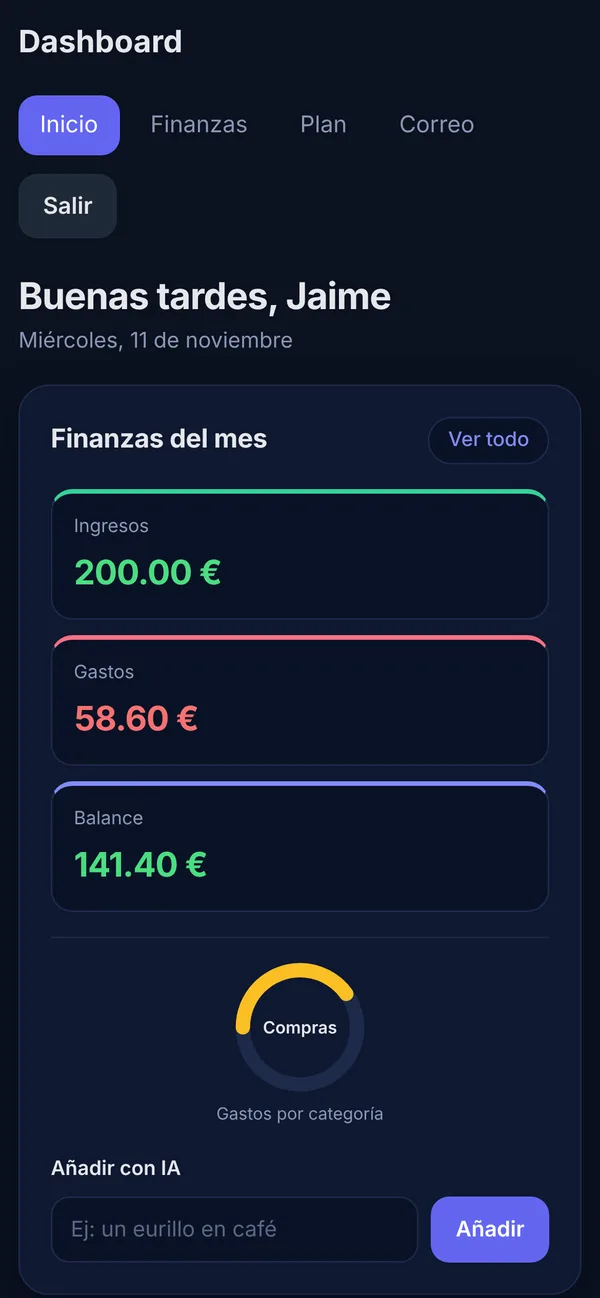
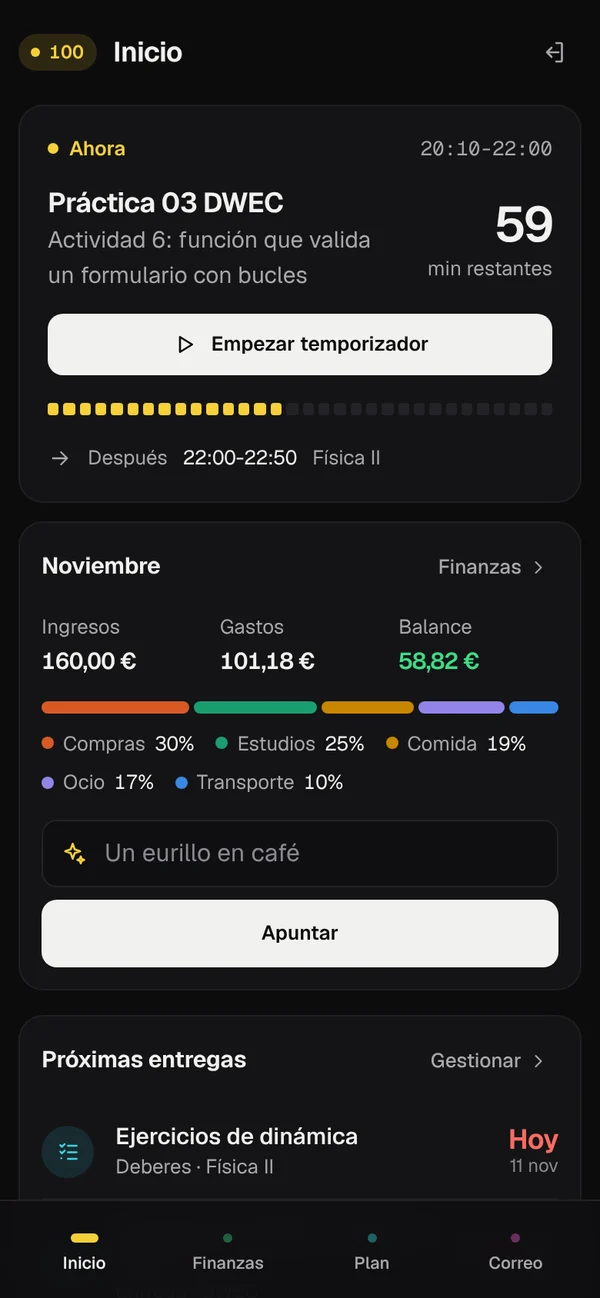
Capturas nuevas del dashboard: una de cada página
- Inicio, Finanzas, Plan y móvil actualizadas con el diseño nuevo
- Añadidas Correo y Acceso a la galería del caso de estudio
- Nuevo paso «Mi correo, resumido» en la historia del inicio
- Textos y traducciones al inglés al día (rosco, atajos, Ahora)

diff --git a/js/idiomas.js b/js/idiomas.js
@@ -173,13 +173,20 @@ const traducciones = {
     "Mi dashboard personal": "My personal dashboard",
     "Una web app privada que uso cada día para mis finanzas, mi plan de estudio y mi correo.": "A private web app I use every day for my money, my study plan and my email.",
     "Mi día en una pantalla": "My day on one screen",
-    "El inicio junta el balance del mes, lo que me toca estudiar hoy, los próximos exámenes y un temporizador pomodoro.": "The home page brings together the month's balance, what I have to study today, upcoming exams and a pomodoro timer.",
+    "El inicio me dice qué toca ahora y cuánto le queda, y junta el día completo, el balance del mes, las próximas entregas y un temporizador pomodoro.": "The home page tells me what's on right now and how long is left, and brings together the full day, the month's balance, upcoming deadlines and a pomodoro timer.",
     "Gastos escritos como hablo": "Expenses written the way I talk",
     "Escribo «un eurillo en café» y una Edge Function se lo pasa a un modelo de Groq, que devuelve el movimiento con importe y categoría.": "I type “a euro on coffee” and an Edge Function sends it to a Groq model, which returns the transaction with its amount and category.",
     "Un plan semanal que se adapta": "A weekly plan that adapts",
     "A partir de mis exámenes y entregas, la IA reparte la semana en dos pasos. Lo que ya ha pasado nunca se reescribe: lo protege el propio JavaScript.": "Based on my exams and deadlines, the AI plans the week in two steps. What has already happened is never rewritten: the JavaScript itself protects it.",
     "También en el móvil": "On mobile too",
-    "Es responsive y además resume mi correo de las últimas 24 horas: importantes, por responder y el resto.": "It's responsive, and it also summarises my email from the last 24 hours: important, to answer and the rest.",
+    "Mi correo, resumido": "My email, summarised",
+    "Un Apps Script lee Gmail y la IA separa lo de las últimas 24 horas en importantes, por responder y el resto.": "An Apps Script reads Gmail and the AI splits the last 24 hours into important, to answer and the rest.",
+    "En el ordenador tiene menú lateral y atajos de teclado; en el móvil, una barra inferior para cambiar de sección con el pulgar.": "On a computer it has a sidebar and keyboard shortcuts; on a phone, a bottom bar to switch sections with your thumb.",
+    "Resumen del correo": "Email summary",
+    "Resumen del correo de las últimas 24 horas": "Summary of the last 24 hours of email",
+    "Pantalla de acceso": "Sign-in screen",
+    "Acceso": "Sign in",
+    "Página de finanzas con el rosco de gastos por categoría": "Finance page with the spending-by-category donut",
     "páginas": "pages",
     "tablas con RLS": "tables with RLS",
     "Ver el caso completo": "See the full case study",
@@ -274,9 +281,9 @@ const traducciones = {
     "Quería tener en un solo sitio mis gastos, lo que tengo que estudiar cada día y lo importante de mi correo, desde el ordenador y desde el móvil, y sin pagar nada por ello.": "I wanted my expenses, what I need to study each day and the important part of my email in one place, on my computer and my phone, without paying anything for it.",
     "Qué hace": "What it does",
     "Inicio:": "Home:",
-    "balance del mes, lo que toca hoy, próximos exámenes y un temporizador pomodoro.": "the month's balance, today's tasks, upcoming exams and a pomodoro timer.",
+    "lo que toca ahora según el plan con su cuenta atrás, el día completo, un temporizador pomodoro, el balance del mes y las próximas entregas.": "what's on now according to the plan with its countdown, the full day, a pomodoro timer, the month's balance and upcoming deadlines.",
     "Finanzas:": "Finance:",
-    "movimientos con filtros por mes y categoría, totales y dos gráficos con Chart.js.": "transactions filtered by month and category, totals and two Chart.js charts.",
+    "movimientos que se apuntan escribiendo como hablas, con búsqueda, filtros, edición con deshacer, gasto medio diario, comparación con el mes anterior y gráficos dibujados sin librerías.": "transactions you log by typing the way you talk, with search, filters, editing with undo, average daily spend, a comparison with last month and charts drawn without libraries.",
     "Plan:": "Plan:",
     "exámenes, entregas y compromisos; con eso la IA genera el plan de la semana.": "exams, deadlines and appointments; from those the AI builds the week's plan.",
     "Correo:": "Email:",
@@ -292,6 +299,7 @@ const traducciones = {
     "El plan se genera en dos pasos, primero la estrategia y luego cada día, para no pasarse del límite de tokens.": "The plan is generated in two steps, first the strategy and then each day, to stay within the token limit.",
     "Lo que ya ha pasado no se reescribe: el JavaScript descarta los bloques de la IA que pisan horas pasadas.": "The past is never rewritten: the JavaScript discards any AI blocks that overlap hours already gone.",
     "Cada página tiene su propia hoja de estilos, colgada de la clase del body, para que no se pisen entre ellas.": "Each page has its own stylesheet, scoped to the body class, so they never clash.",
+    "Diseño propio y minimalista: cada sección tiene un número y un color que solo aparece como acento, menú lateral en el ordenador, barra inferior en el móvil y atajos de teclado.": "My own minimal design: each section has a number and a colour used only as an accent, a sidebar on desktop, a bottom bar on mobile and keyboard shortcuts.",
     "Finanzas": "Finance",
     "Plan semanal": "Weekly plan",
     "Móvil": "Mobile",

diff --git a/index.html b/index.html
@@ -180,7 +180,8 @@
                                     <img src="resources/dashboard-inicio.webp" alt="" class="captura activa" data-paso="0" loading="lazy" width="1600" height="960">
                                     <img src="resources/dashboard-finanzas.webp" alt="" class="captura" data-paso="1" loading="lazy" width="1600" height="960">
                                     <img src="resources/dashboard-plan.webp" alt="" class="captura" data-paso="2" loading="lazy" width="1600" height="960">
-                                    <img src="resources/dashboard-inicio-movil.webp" alt="" class="captura captura-movil" data-paso="3" loading="lazy" width="600" height="1298">
+                                    <img src="resources/dashboard-correo.webp" alt="" class="captura" data-paso="3" loading="lazy" width="1600" height="960">
+                                    <img src="resources/dashboard-inicio-movil.webp" alt="" class="captura captura-movil" data-paso="4" loading="lazy" width="600" height="1298">
                                 </div>
                             </div>
                         </div>
@@ -190,7 +191,7 @@
                                 <img src="resources/dashboard-inicio.webp" alt="Pantalla de inicio del dashboard" class="paso-captura" loading="lazy" width="1600" height="960">
                                 <span class="paso-num">01</span>
                                 <h3>Mi día en una pantalla</h3>
-                                <p>El inicio junta el balance del mes, lo que me toca estudiar hoy, los próximos exámenes y un temporizador pomodoro.</p>
+                                <p>El inicio me dice qué toca ahora y cuánto le queda, y junta el día completo, el balance del mes, las próximas entregas y un temporizador pomodoro.</p>
                             </article>
                             <article class="paso" data-paso="1">
                                 <img src="resources/dashboard-finanzas.webp" alt="Página de finanzas con gráficos" class="paso-captura" loading="lazy" width="1600" height="960">
@@ -205,10 +206,16 @@
                                 <p>A partir de mis exámenes y entregas, la IA reparte la semana en dos pasos. Lo que ya ha pasado nunca se reescribe: lo protege el propio JavaScript.</p>
                             </article>
                             <article class="paso" data-paso="3">
-                                <img src="resources/dashboard-inicio-movil.webp" alt="Dashboard en el móvil" class="paso-captura paso-captura-movil" loading="lazy" width="600" height="1298">
+                                <img src="resources/dashboard-correo.webp" alt="Resumen del correo" class="paso-captura" loading="lazy" width="1600" height="960">
                                 <span class="paso-num">04</span>
+                                <h3>Mi correo, resumido</h3>
+                                <p>Un Apps Script lee Gmail y la IA separa lo de las últimas 24 horas en importantes, por responder y el resto.</p>
+                            </article>
+                            <article class="paso" data-paso="4">
+                                <img src="resources/dashboard-inicio-movil.webp" alt="Dashboard en el móvil" class="paso-captura paso-captura-movil" loading="lazy" width="600" height="1298">
+                                <span class="paso-num">05</span>
                                 <h3>También en el móvil</h3>
-                                <p>Es responsive y además resume mi correo de las últimas 24 horas: importantes, por responder y el resto.</p>
+                                <p>En el ordenador tiene menú lateral y atajos de teclado; en el móvil, una barra inferior para cambiar de sección con el pulgar.</p>
                             </article>
                         </div>
                     </div>

diff --git a/proyectos.html b/proyectos.html
@@ -193,8 +193,8 @@
                     <div>
                         <h3>Qué hace</h3>
                         <ul>
-                            <li><strong>Inicio:</strong> balance del mes, lo que toca hoy, próximos exámenes y un temporizador pomodoro.</li>
-                            <li><strong>Finanzas:</strong> movimientos con filtros por mes y categoría, totales y dos gráficos con Chart.js.</li>
+                            <li><strong>Inicio:</strong> lo que toca ahora según el plan con su cuenta atrás, el día completo, un temporizador pomodoro, el balance del mes y las próximas entregas.</li>
+                            <li><strong>Finanzas:</strong> movimientos que se apuntan escribiendo como hablas, con búsqueda, filtros, edición con deshacer, gasto medio diario, comparación con el mes anterior y gráficos dibujados sin librerías.</li>
                             <li><strong>Plan:</strong> exámenes, entregas y compromisos; con eso la IA genera el plan de la semana.</li>
                             <li><strong>Correo:</strong> resumen de las últimas 24 horas en importantes, por responder y resto.</li>
                         </ul>
@@ -216,11 +216,12 @@
                     <li>El plan se genera en dos pasos, primero la estrategia y luego cada día, para no pasarse del límite de tokens.</li>
                     <li>Lo que ya ha pasado no se reescribe: el JavaScript descarta los bloques de la IA que pisan horas pasadas.</li>
                     <li>Cada página tiene su propia hoja de estilos, colgada de la clase del body, para que no se pisen entre ellas.</li>
+                    <li>Diseño propio y minimalista: cada sección tiene un número y un color que solo aparece como acento, menú lateral en el ordenador, barra inferior en el móvil y atajos de teclado.</li>
                 </ul>
 
                 <div class="caso-galeria">
                     <figure>
-                        <img src="resources/dashboard-finanzas.webp" alt="Página de finanzas con gráficos" loading="lazy" width="1600" height="960">
+                        <img src="resources/dashboard-finanzas.webp" alt="Página de finanzas con el rosco de gastos por categoría" loading="lazy" width="1600" height="960">
                         <figcaption>Finanzas</figcaption>
                     </figure>
                     <figure>
@@ -230,6 +231,14 @@
                     <figure class="caso-galeria-movil">
                         <img src="resources/dashboard-inicio-movil.webp" alt="Inicio del dashboard en el móvil" loading="lazy" width="600" height="1298">
                         <figcaption>Móvil</figcaption>
+                    </figure>
+                    <figure>
+                        <img src="resources/dashboard-correo.webp" alt="Resumen del correo de las últimas 24 horas" loading="lazy" width="1600" height="960">
+                        <figcaption>Correo</figcaption>
+                    </figure>
+                    <figure>
+                        <img src="resources/dashboard-login.webp" alt="Pantalla de acceso" loading="lazy" width="1600" height="960">
+                        <figcaption>Acceso</figcaption>
                     </figure>
                 </div>
 

diff --git a/css/style.css b/css/style.css
@@ -2022,6 +2022,12 @@ html.tema-vt::view-transition-new(root) {
     border: 1px solid var(--border);
 }
 
+/* El móvil ocupa la tercera columna a lo alto de dos filas de capturas */
+.caso-galeria-movil {
+    grid-column: 3;
+    grid-row: 1 / span 2;
+}
+
 .caso-galeria figcaption {
     font-size: 0.85rem;
     color: var(--text-muted);
@@ -2040,6 +2046,8 @@ html.tema-vt::view-transition-new(root) {
     }
 
     .caso-galeria-movil {
+        grid-column: auto;
+        grid-row: auto;
         width: 55%;
     }
 }
